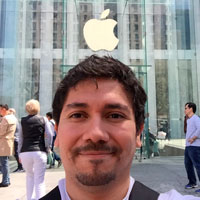
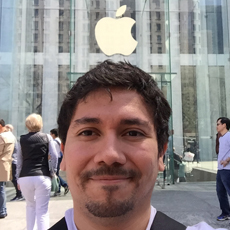
Added netmidas and swapps

diff --git a/index.html b/index.html
@@ -581,7 +581,7 @@
                 </div>
                 <div class="col-sm-4">
                     <div class="team-member" itemprop="performer" itemscope itemtype="http://schema.org/Person">
-                        <img src="img/team/julian-mora.png" itemprop="image" class="img-responsive img-circle" alt="Julian Mora">
+                        <img src="img/team/julian-mora.jpg" itemprop="image" class="img-responsive img-circle" alt="Julian Mora">
                         <h4 itemprop="name">Julian Mora</h4>
                         <p class="text-muted" itemprop="description">If you can’t be brilliant, at least be memorable. UX, AI, UI Designer at @monoku and freelance consultant</p>
                         <ul class="list-inline social-buttons">
@@ -633,6 +633,16 @@
                 <div class="col-md-4 col-sm-6">
                     <a href="http://www.inmovis.com" target="_blank">
                         <img src="img/logos/inmovis.jpg" class="img-responsive img-centered" alt="Inmovis Software Inmobiliario">
+                    </a>
+                </div>
+                <div class="col-md-4 col-sm-6">
+                    <a href="http://www.swapps.co" target="_blank">
+                        <img src="img/logos/swapps.jpg" class="img-responsive img-centered" alt="Swapps">
+                    </a>
+                </div>
+                <div class="col-md-4 col-sm-6">
+                    <a href="http://www.netmidas.com" target="_blank">
+                        <img src="img/logos/netmidas.jpg" class="img-responsive img-centered" alt="Netmidas">
                     </a>
                 </div>
             </div>
